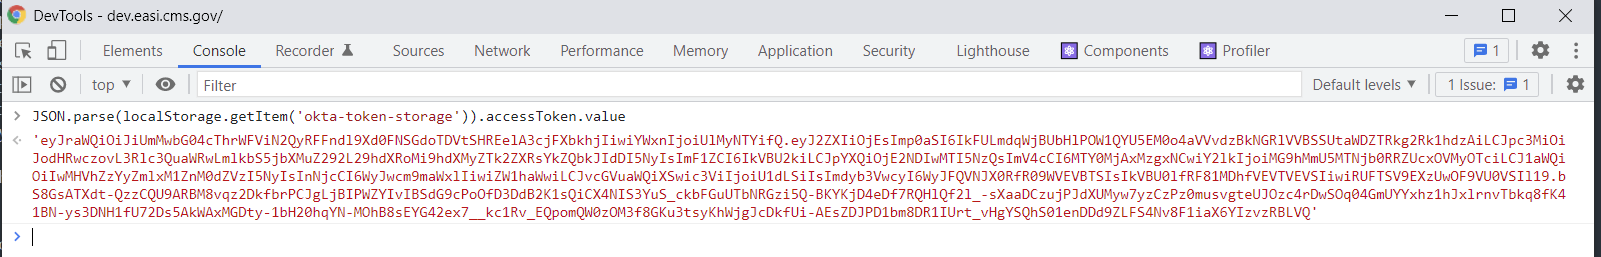
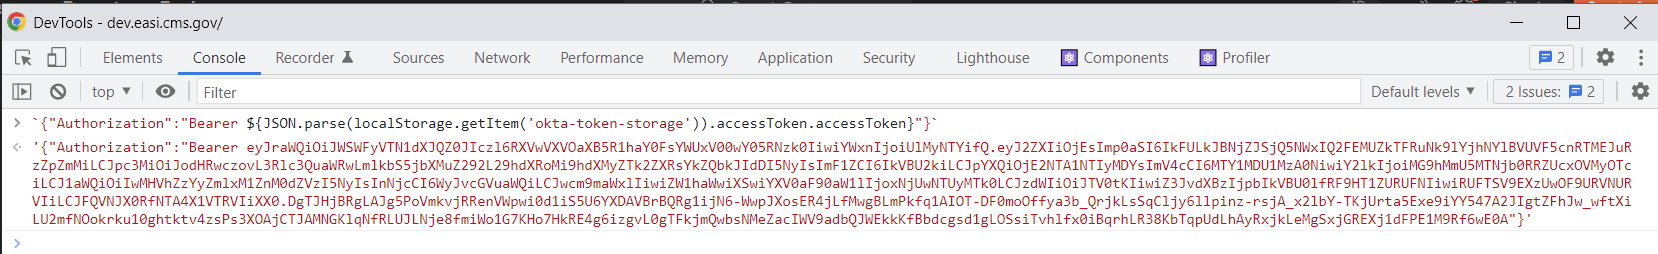
Update/simplify docs for authenticating in deployed GQL playground

diff --git a/docs/graphql_playground.md b/docs/graphql_playground.md
@@ -35,18 +35,14 @@ An EUA ID is needed for some endpoints such as creating system intakes; this can
 The GraphQL playground can also be used in the deployed dev/impl/prod environments. Access it with the same `/api/graph/playground` path, with the appropriate domain, i.e. `https://dev.easi.cms.gov/api/graph/playground`. You'll still need to enter `/api/graph/query` in the playground UI. To authenticate, you'll need to log in to the environment, then get the Bearer token returned by Okta. The easiest way to do this is by opening the browser dev tools, then running the following command:
 
 ```
-JSON.parse(localStorage.getItem('okta-token-storage')).accessToken.value
+`{"Authorization":"Bearer ${JSON.parse(localStorage.getItem('okta-token-storage')).accessToken.accessToken}"}`
 ```
 
-This will return a long base64-encoded string:
+This will return a string with the authorization header you need, containing a Bearer token in the form of a long base64-encoded string:
 
 ![Browser dev tools console, showing the result of the above command](./images/graphql_playground/browser_console.png)
 
 
-Copy the string (_without_ the surrounding quotes). In the GraphQL playground, in HTTP Headers, enter 
-```
-{"Authorization":"Bearer <insert token here>"}
-```
-to authenticate your requests.
+Copy the string (_without_ the surrounding quotes). In the GraphQL playground, paste the string in the HTTP Headers section to authenticate your requests.
 
 ![GraphQL Playground, HTTP Headers section, showing the Authorization header with the token added](./images/graphql_playground/graphql_playground_header.png)
